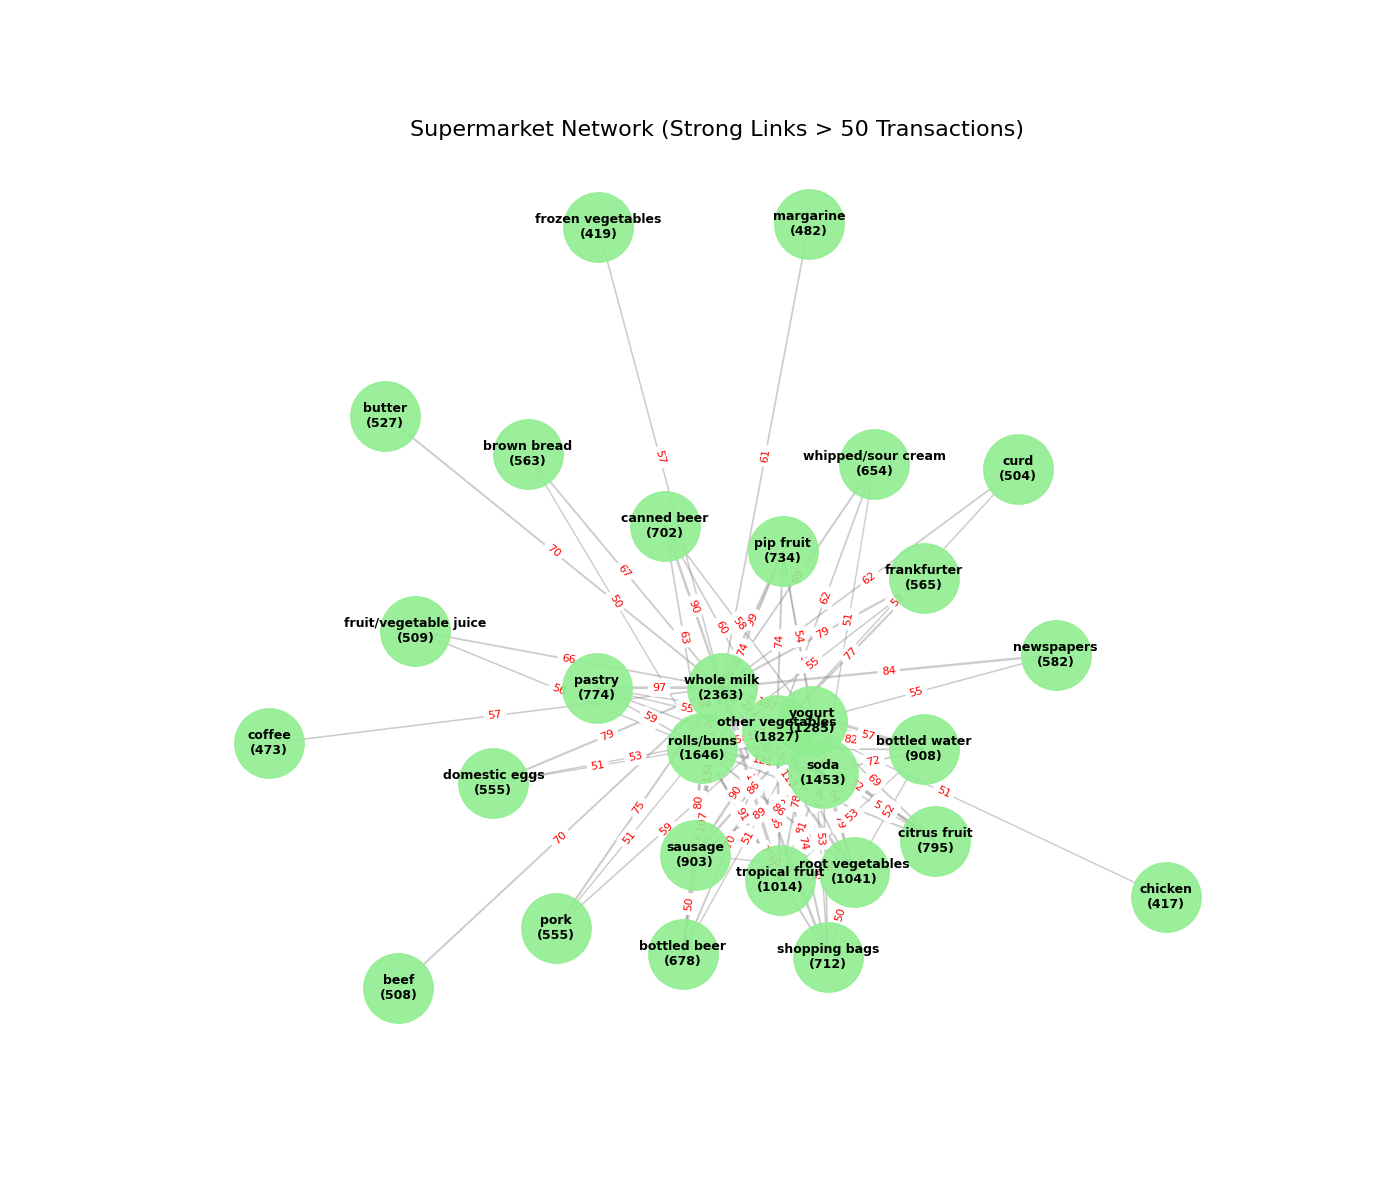
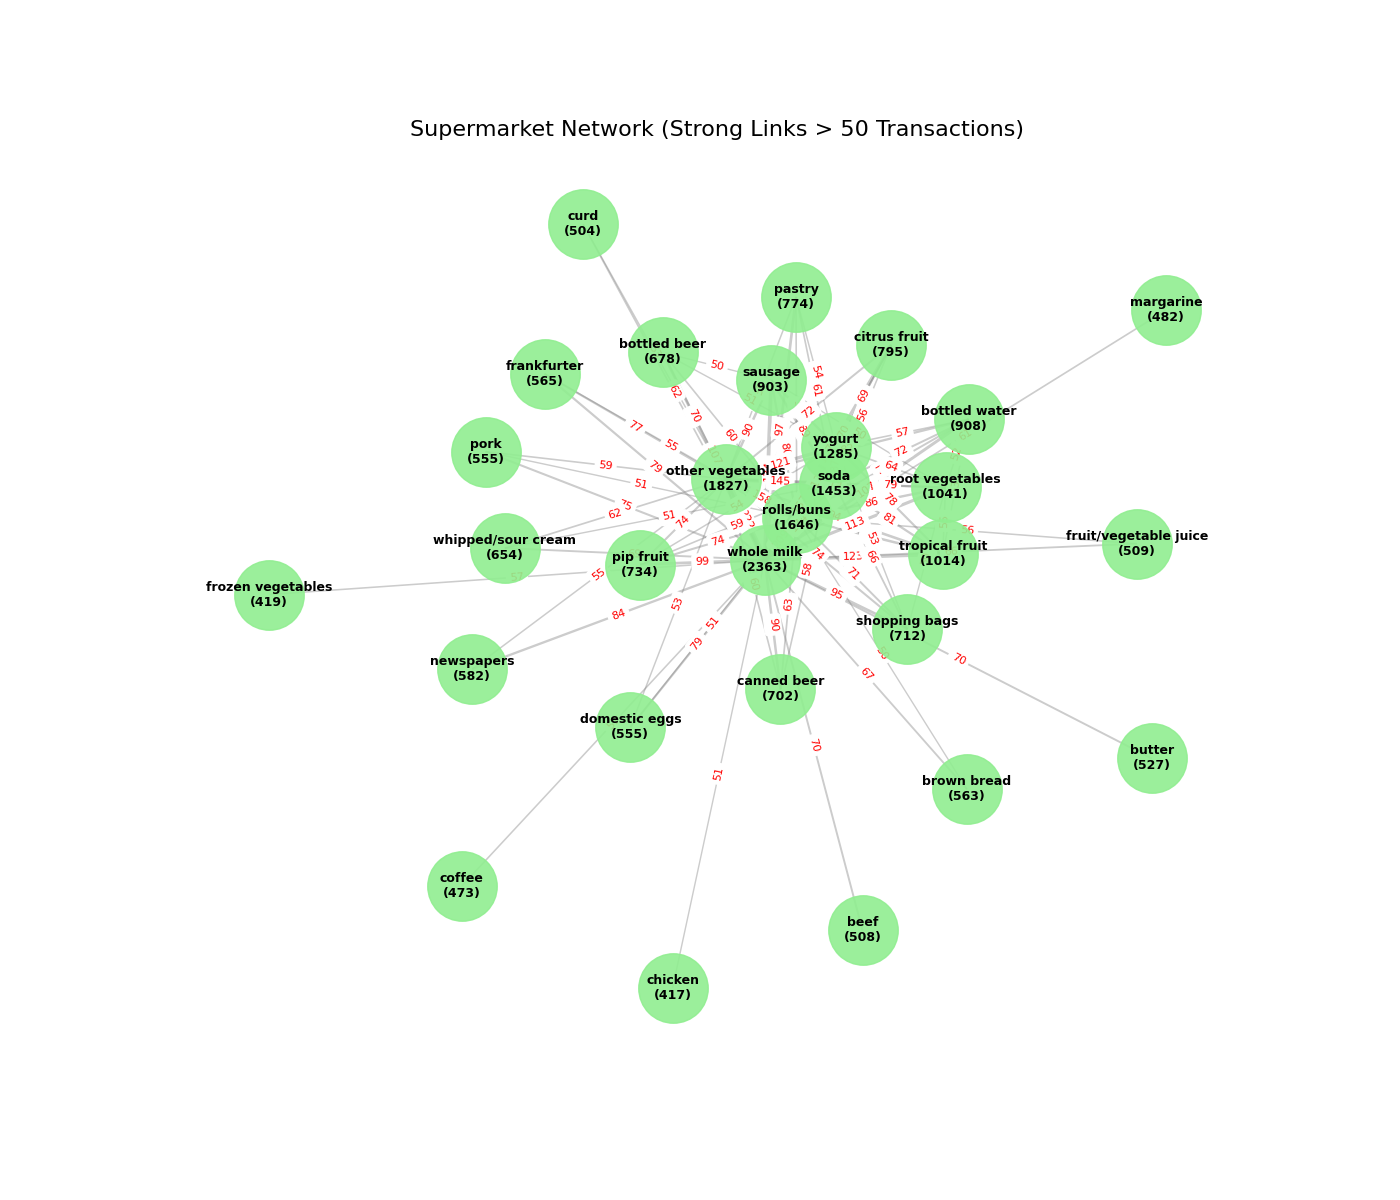
fix logic and sorting for promo list

diff --git a/src/algorithms.py b/src/algorithms.py
@@ -113,7 +113,7 @@ class MarketBasketAnalyser:
         """
         if commodity_items is None:
             # Default list of items to filter out if they appear as targets
-            commodity_items = ['whole milk', 'other vegetables', 'rolls/buns', 'soda']
+            commodity_items = ['whole milk', 'other vegetables', 'rolls/buns', 'soda', 'yogurt', 'root vegetables']
 
         top_drivers = self.get_top_n_items(top_n)
         results = []
@@ -123,21 +123,19 @@ class MarketBasketAnalyser:
             
             selected_partner = None
             for partner, count in partners:
-                # LOGIC: If driver is NOT a commodity, don't recommend a commodity.
-                # If driver IS a commodity (e.g. Milk), we recommend the next best thing.
-                if driver not in commodity_items and partner in commodity_items:
-                    continue 
-                
+                if partner in commodity_items:
+                    continue
                 selected_partner = partner
                 break
-            
             if selected_partner:
                 conf = self.calculate_confidence(driver, selected_partner)
                 results.append((driver, selected_partner, conf))
             else:
                 results.append((driver, None, 0.0))
-        
+        results.sort(key=lambda x:x[2], reverse=True)
         return results
+
+
 
     def get_niche_bfs_recommendations(self, start_item, max_depth=2, filter_hubs=None):
         """